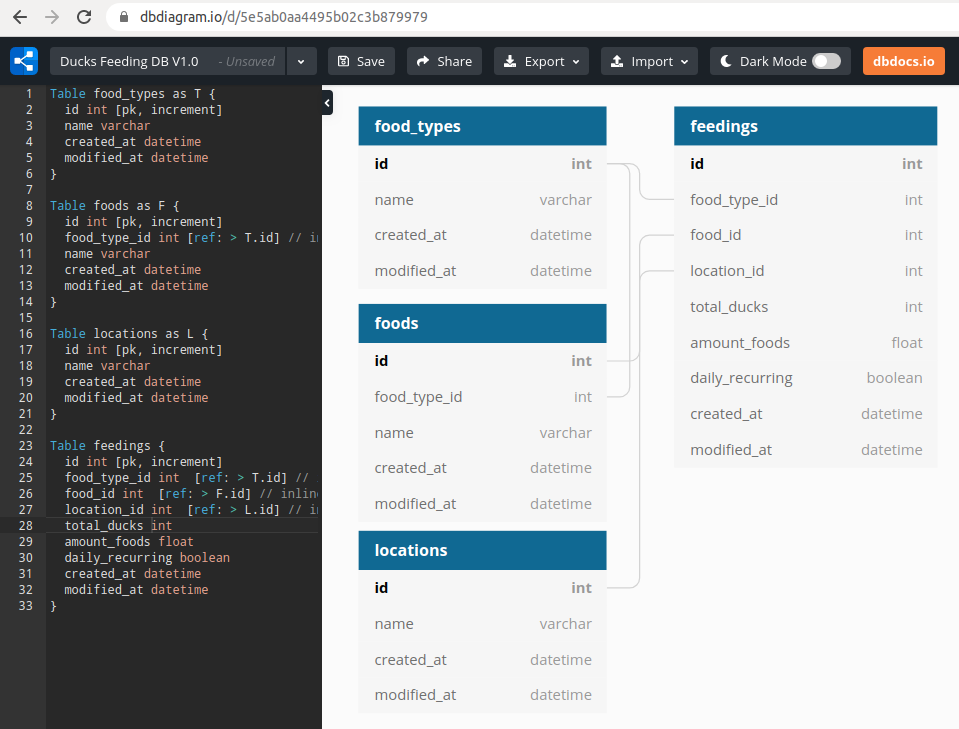
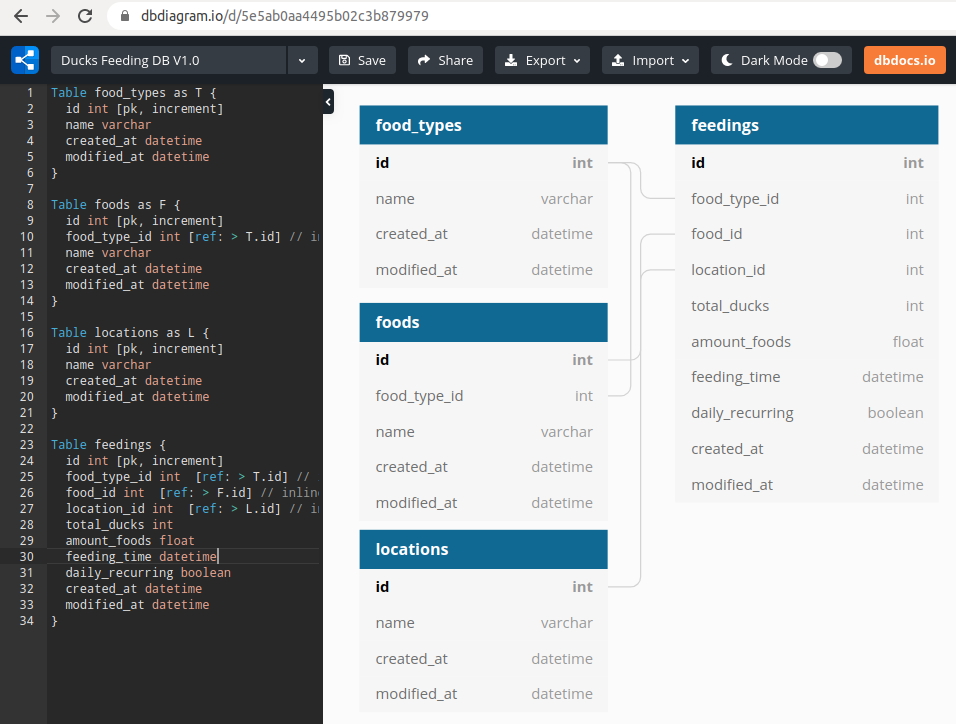
DB Migrations added based on ERD

diff --git a/database/migrations/2020_02_29_181016_create_feedings_table.php b/database/migrations/2020_02_29_181016_create_feedings_table.php
@@ -1,0 +1,47 @@
+<?php
+
+use Illuminate\Database\Migrations\Migration;
+use Illuminate\Database\Schema\Blueprint;
+use Illuminate\Support\Facades\DB;
+use Illuminate\Support\Facades\Schema;
+
+class CreateFeedingsTable extends Migration
+{
+    /**
+     * Run the migrations.
+     *
+     * @return void
+     */
+    public function up()
+    {
+        Schema::create('feedings', function (Blueprint $table) {
+            $table->bigIncrements('id');
+
+            $table->unsignedBigInteger('food_type_id')->nullable();
+            $table->foreign('food_type_id')->references('id')->on('food_types')->onDelete('set null');
+
+            $table->unsignedBigInteger('food_id')->nullable();
+            $table->foreign('food_id')->references('id')->on('foods')->onDelete('set null');
+
+            $table->unsignedBigInteger('location_id')->nullable();
+            $table->foreign('location_id')->references('id')->on('locations')->onDelete('set null');
+
+            $table->integer('total_ducks')->default(0);
+            $table->float('amount_foods')->default(0);
+            $table->dateTime('feeding_time')->default(DB::raw('CURRENT_TIMESTAMP'));
+            $table->boolean('daily_recurring')->default(false);
+
+            $table->timestamps();
+        });
+    }
+
+    /**
+     * Reverse the migrations.
+     *
+     * @return void
+     */
+    public function down()
+    {
+        Schema::dropIfExists('feedings');
+    }
+}

diff --git a/database/migrations/2020_02_29_180957_create_foods_table.php b/database/migrations/2020_02_29_180957_create_foods_table.php
@@ -1,0 +1,36 @@
+<?php
+
+use Illuminate\Database\Migrations\Migration;
+use Illuminate\Database\Schema\Blueprint;
+use Illuminate\Support\Facades\Schema;
+
+class CreateFoodsTable extends Migration
+{
+    /**
+     * Run the migrations.
+     *
+     * @return void
+     */
+    public function up()
+    {
+        Schema::create('foods', function (Blueprint $table) {
+            $table->bigIncrements('id');
+
+            $table->unsignedBigInteger('food_type_id')->nullable();
+            $table->foreign('food_type_id')->references('id')->on('food_types')->onDelete('set null');
+            $table->string('name', 120);
+
+            $table->timestamps();
+        });
+    }
+
+    /**
+     * Reverse the migrations.
+     *
+     * @return void
+     */
+    public function down()
+    {
+        Schema::dropIfExists('foods');
+    }
+}

diff --git a/database/migrations/2020_02_29_180944_create_food_types_table.php b/database/migrations/2020_02_29_180944_create_food_types_table.php
@@ -1,0 +1,34 @@
+<?php
+
+use Illuminate\Database\Migrations\Migration;
+use Illuminate\Database\Schema\Blueprint;
+use Illuminate\Support\Facades\Schema;
+
+class CreateFoodTypesTable extends Migration
+{
+    /**
+     * Run the migrations.
+     *
+     * @return void
+     */
+    public function up()
+    {
+        Schema::create('food_types', function (Blueprint $table) {
+            $table->bigIncrements('id');
+
+            $table->string('name', 120);
+
+            $table->timestamps();
+        });
+    }
+
+    /**
+     * Reverse the migrations.
+     *
+     * @return void
+     */
+    public function down()
+    {
+        Schema::dropIfExists('food_types');
+    }
+}

diff --git a/database/migrations/2020_02_29_181005_create_locations_table.php b/database/migrations/2020_02_29_181005_create_locations_table.php
@@ -1,0 +1,34 @@
+<?php
+
+use Illuminate\Database\Migrations\Migration;
+use Illuminate\Database\Schema\Blueprint;
+use Illuminate\Support\Facades\Schema;
+
+class CreateLocationsTable extends Migration
+{
+    /**
+     * Run the migrations.
+     *
+     * @return void
+     */
+    public function up()
+    {
+        Schema::create('locations', function (Blueprint $table) {
+            $table->bigIncrements('id');
+
+            $table->string('name', 120);
+
+            $table->timestamps();
+        });
+    }
+
+    /**
+     * Reverse the migrations.
+     *
+     * @return void
+     */
+    public function down()
+    {
+        Schema::dropIfExists('locations');
+    }
+}
